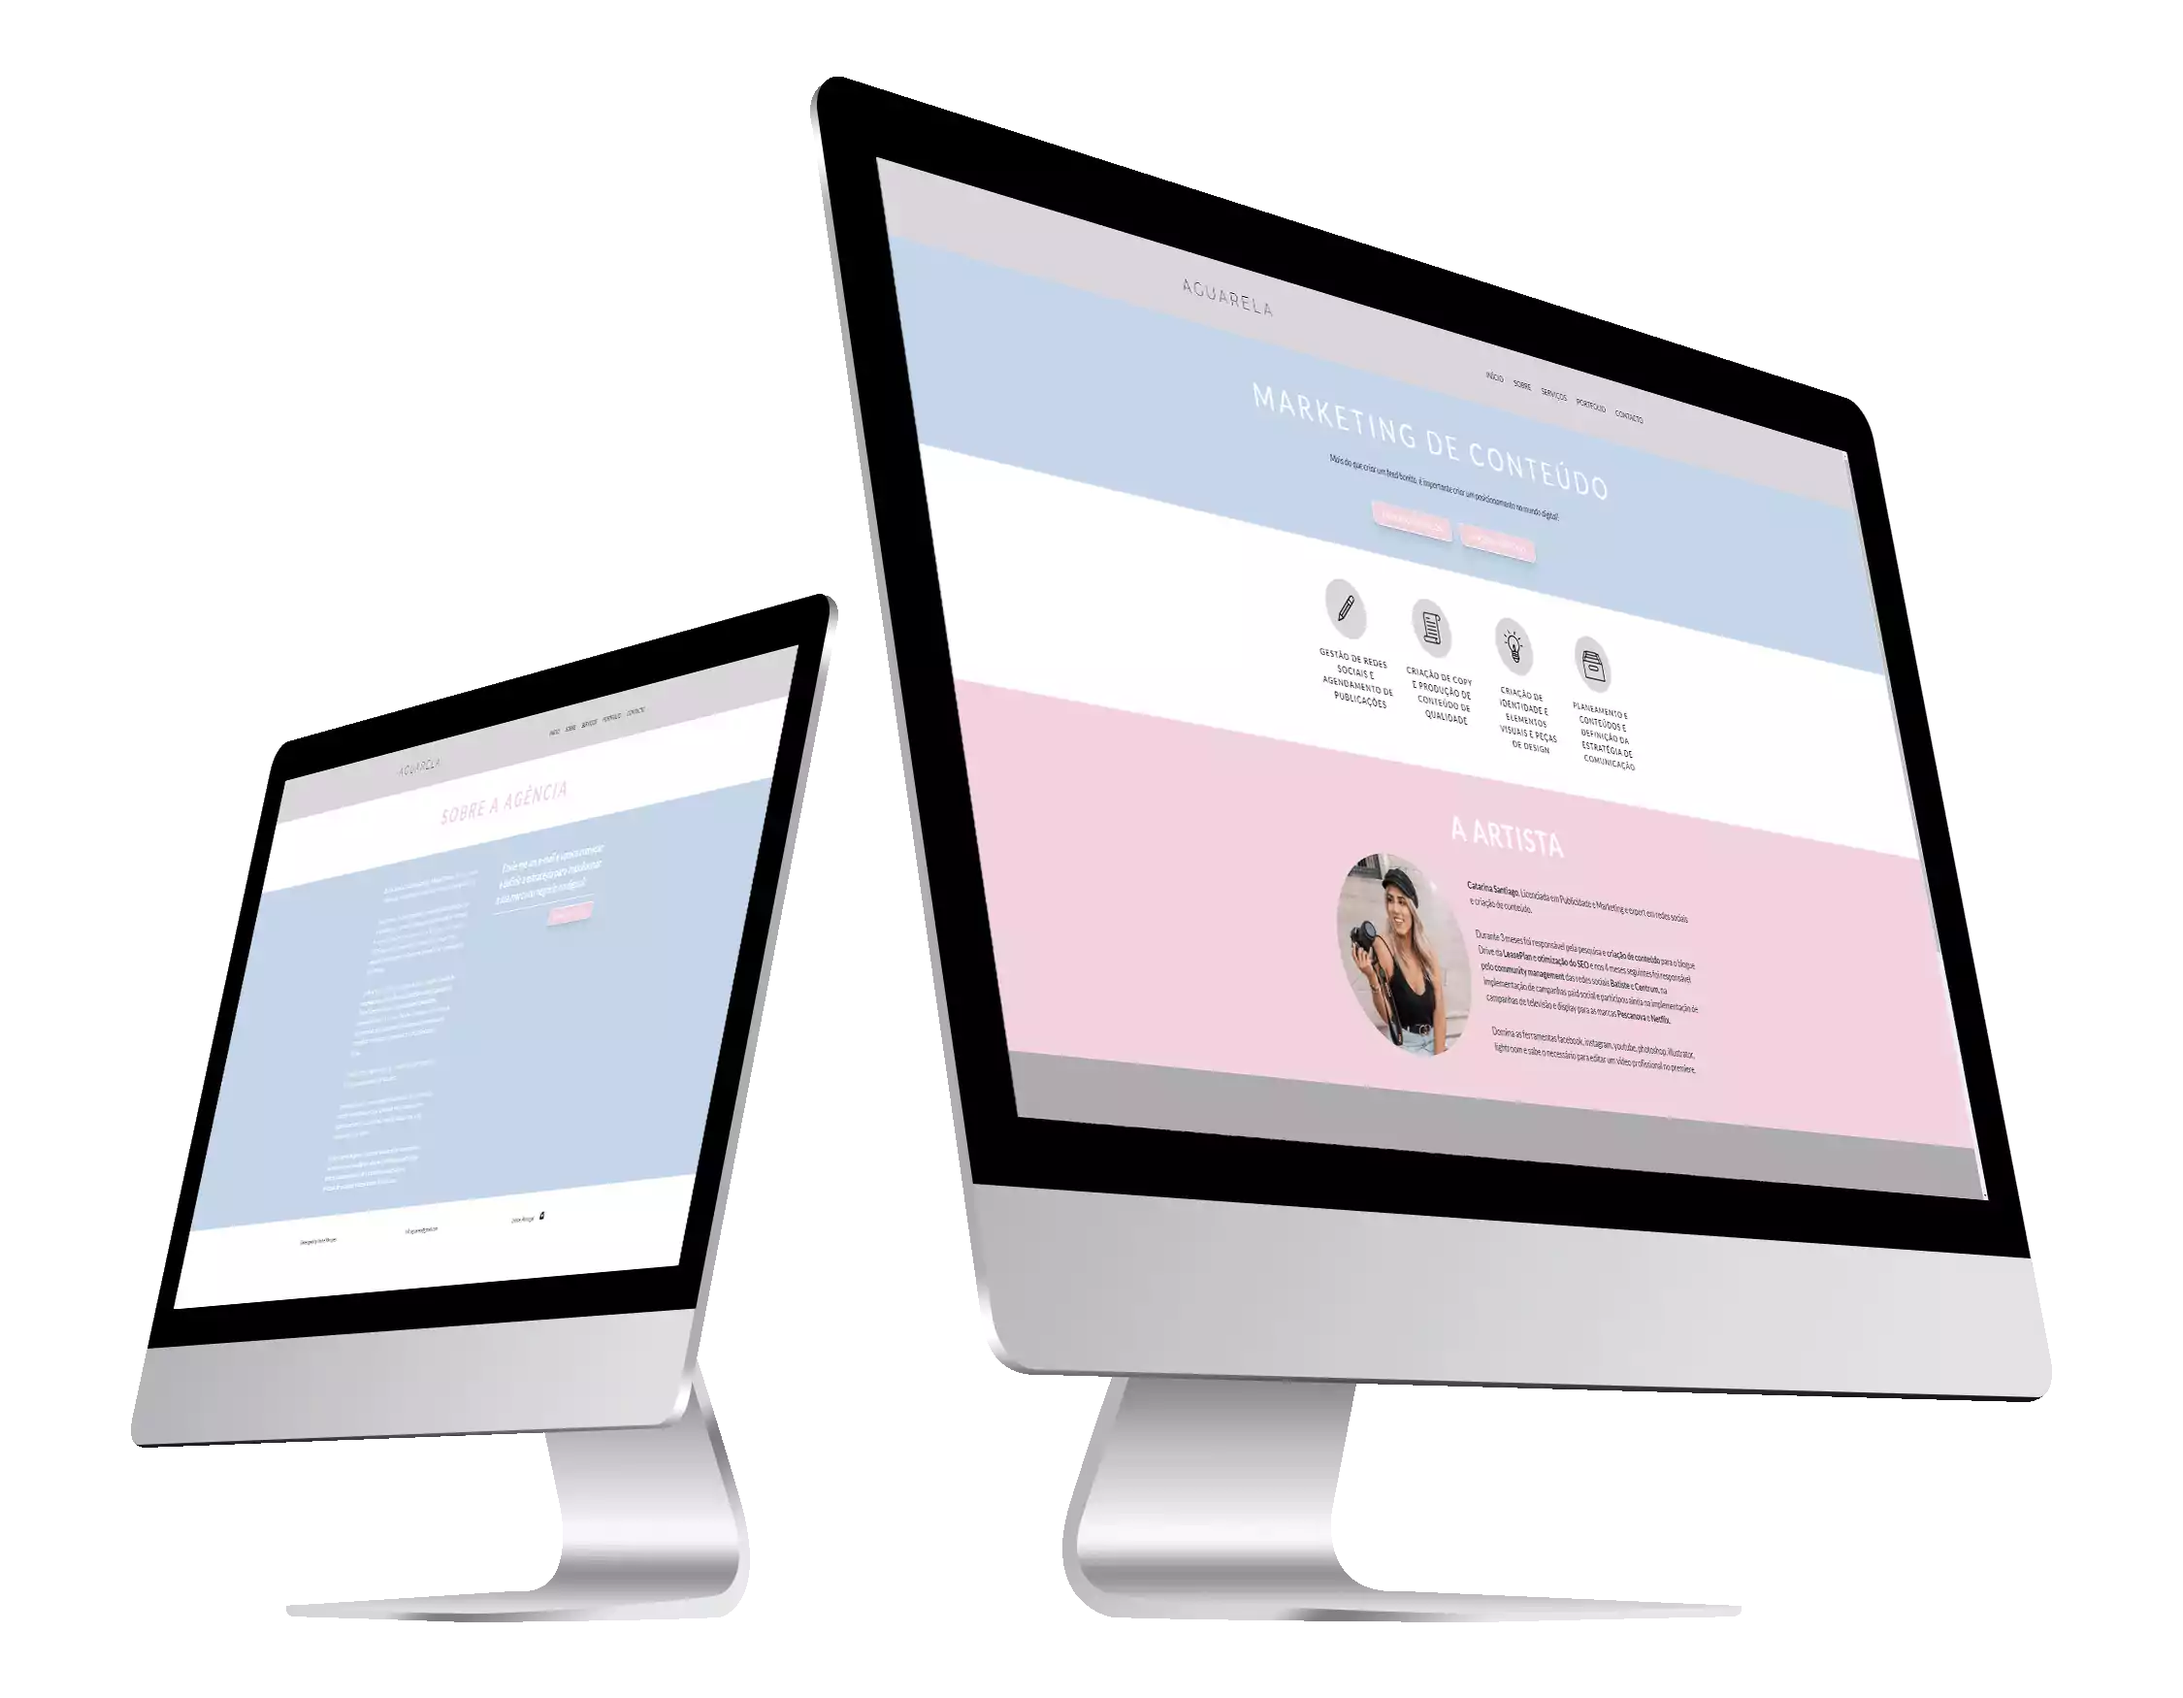
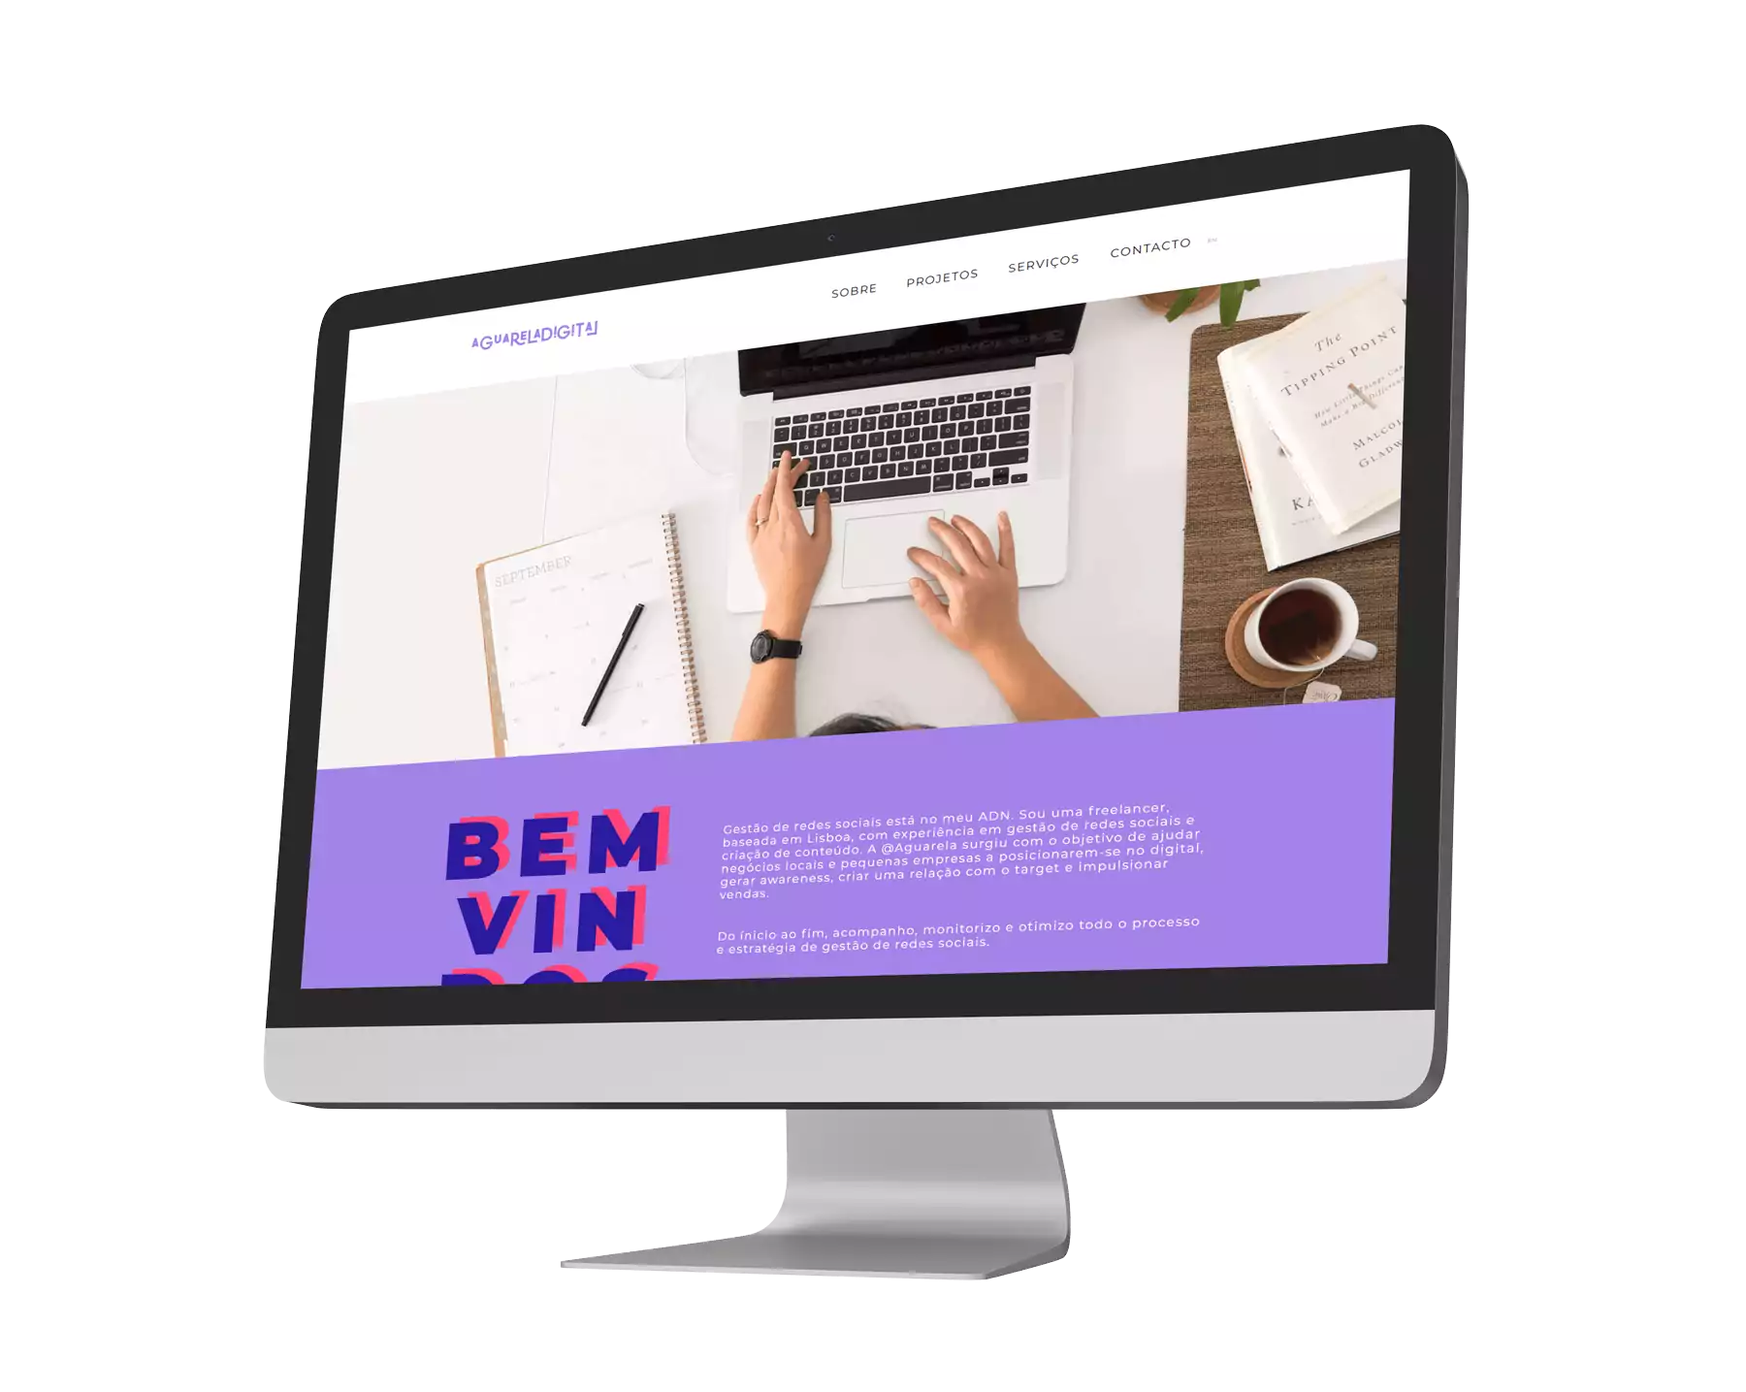
Update Aguarela project detail page to feature new website

diff --git a/sources/store.js b/sources/store.js
@@ -8,6 +8,29 @@ export default new Vuex.Store({
         menuOpen: false,
         projects: [
             {
+                name: 'Aguarela Digital',
+                path: 'aguarela',
+                year: 2020,
+                description: `<a href="https://aguareladigital.com/" target="_blank" rel="noreferrer" aria-label="Aguarela Digital Website" class="alternativeLink">Aguarela</a> is the website for <a href="https://www.instagram.com/aguareladigital" target="_blank" rel="noreferrer" aria-label="Aguarela Instagram" class="alternativeLink">Aguarela Digital</a>, a digital agency founded in 2018. The project was created to help local brands and businesses with their digital platforms by creating unique social media strategies and quality content. Aguarela provides services like social media management, content creation, communication design and social paid campaigns.`,
+                myRole: `<span>I was responsible for the whole development and implementation of the website except for the UI design. Other than that, I developed the code, optimized images, acquired the domain and took care of the website hosting.</span><span>Even though it was a simple static website, this allowed me to have a broader view of the whole process of building a website and putting it online. Furthermore, I was all by myself while doing it and therefore I can consider it as my first freelance job.</span><span>Next.js and React were the two main technologies used in development since the goal was to use the latest tech stack available for a relatively simple and static website.</span>`,
+                lighthouseText: `Since this is a static website that didn't rely on backend, I had total control over its content. This includes the biggest performance throttler: images. In this website, all of them are optimized and that makes a huge difference, contributing heavily to the 95% score. Apart from that, I was very strict with the quality of my code and that reflects on the high scores on the other departments.`,
+                lighthouseResults: {
+                    'Performance': 95,
+                    'Accessibility': 98,
+                    'Best Practices': 100,
+                    'SEO': 92,
+                },
+                image: {
+                    thumbnail: 'aguarela-thumbnail',
+                    detailMain: 'aguarela-detail-main',
+                    detailResponsive: 'aguarela-detail-responsive',
+                },
+                credits: [
+                    'Frontend - André Marques',
+                    'UI - Catarina Santiago (Aguarela Digital)',
+                ]
+            },
+            {
                 name: 'Ageas Portugal',
                 path: 'ageas-portugal',
                 year: 2019,
@@ -88,35 +111,6 @@ export default new Vuex.Store({
                     'UI - Edmundo Ramos & Renato Miguel',
                     'UX - Rita Pereira & Susana Vilaça',
                     'Project Management - Fábio Farinha & Marta Santos'
-                ]
-            },
-            {
-                name: 'Aguarela',
-                path: 'aguarela',
-                year: 2019,
-                description: `<a href="https://www.aguarelaproject.com" target="_blank" rel="noreferrer" aria-label="Aguarela Website" class="alternativeLink">Aguarela</a> is the website for <a href="https://www.instagram.com/aguareladigital" target="_blank" rel="noreferrer" aria-label="Aguarela Instagram" class="alternativeLink">Aguarela Digital</a>, a digital agency founded in 2018. The project was created to help local brands and businesses with their digital platforms by creating unique social media strategies and quality content. Aguarela provides services like social media management, content creation, communication design and social paid campaigns.`,
-                myRole: `<span>I was responsible for the whole development and implementation of the website except for the UI design. Other than that, I developed the code, optimized images, acquired the domain and took care of the website hosting.</span><span>Even though it was a simple static website, this allowed me to have a broader view of the whole process of building a website and putting it online. Furthermore, I was all by myself while doing it and therefore I can consider it as my first freelance job.</span><span>Since I was aiming for the cleanest and most efficient code possible, I used plain vanilla JavaScript with no plugins or frameworks whatsoever. This means that all the neat features were handmade by me and you can see some of the examples on my <a href="https://codepen.io/AndreMarquesDev" target="_blank" rel="noreferrer" aria-label="André Marques CodePen" class="alternativeLink">CodePen</a> page.</span><span>I used SASS for the styling and Gulp as the automated compiler.</span><span>This is currently a <a href="https://developers.google.com/web/progressive-web-apps" target="_blank" rel="noreferrer" aria-label="Progressive Web Apps by Google" class="alternativeLink">Progressive Web App</a>. It was not demanded but i figured it would be an excellent opportunity to get hands on with this technology.</span>`,
-                lighthouseText: `Since this is a static website that didn't rely on backend, I had total control over its content. This includes the biggest performance throttler: images. In this website, all of them are optimized and that makes a huge difference, contributing heavily to the 100% score. Apart from that, I was very strict with the quality of my code and that reflects on the high scores on the other departments.`,
-                lighthouseResults: {
-                    'Performance': 100,
-                    'Accessibility': 85,
-                    'Best Practices': 95,
-                    'SEO': 100,
-                },
-                image: {
-                    thumbnail: 'aguarela-thumbnail',
-                    detailMain: 'aguarela-detail-main',
-                    detailResponsive: 'aguarela-detail-responsive',
-                    slider: [
-                        'aguarela-detail-slider-1',
-                        'aguarela-detail-slider-2',
-                        'aguarela-detail-slider-3',
-                        'aguarela-detail-slider-4'
-                    ]
-                },
-                credits: [
-                    'Frontend - André Marques',
-                    'UI - Catarina Santiago (Aguarela Digital)',
                 ]
             },
             {

diff --git a/sources/components/footerNavigation.vue b/sources/components/footerNavigation.vue
@@ -3,12 +3,13 @@
         <small>
             Designed by
             <a
-                href="https://www.instagram.com/aguareladigital"
+                href="https://aguareladigital.com/"
                 target="_blank"
                 rel="noreferrer"
-                aria-label="Aguarela Instagram"
+                aria-label="Aguarela Website"
                 class="alternativeLink"
-            >Aguarela</a>
+                >Aguarela</a
+            >
         </small>
 
         <nav>
